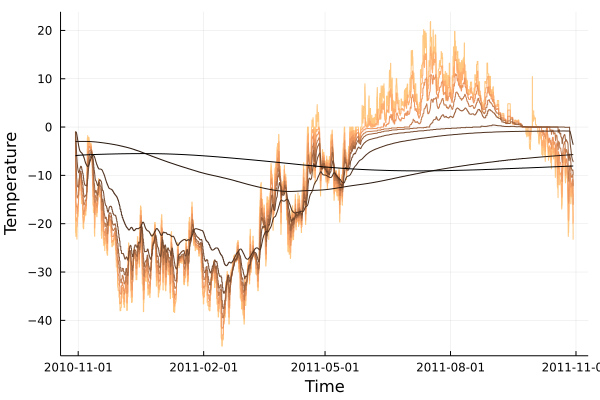
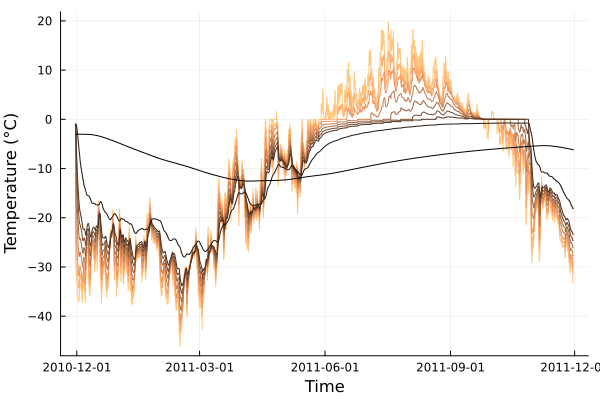
Fix readme examples and modify interface for SoilHeatTile preset

diff --git a/docs/src/quickstart.md b/docs/src/quickstart.md
@@ -12,22 +12,23 @@ using Plots
 # The forcing file will be automatically downloaded to the input/ folder if not already present.
 forcings = loadforcings(CryoGrid.Presets.Forcings.Samoylov_ERA_obs_fitted_1979_2014_spinup_extended_2044, :Tair => u"°C");
 # use air temperature as upper boundary forcing
-tair = TimeSeriesForcing(ustrip.(forcings.data.Tair), forcings.timestamps, :Tair);
+tair = TimeSeriesForcing(forcings.data.Tair, forcings.timestamps, :Tair);
 # get preset soil and initial temperature profile for Samoylov
 soilprofile, tempprofile = CryoGrid.Presets.SamoylovDefault
-# basic 1-layer heat conduction model (defaults to free water freezing scheme)
-model = CryoGrid.Presets.SoilHeatTile(TemperatureGradient(tair), soilprofile)
-# define time span (1 year)
-tspan = (DateTime(2010,10,30),DateTime(2011,10,30))
-p = parameters(model)
 initT = initializer(:T, tempprofile)
-u0 = initialcondition!(model, tspan, p, initT)
+# choose grid with 5cm spacing
+grid = CryoGrid.Presets.DefaultGrid_5cm
+# basic 1-layer heat conduction model (defaults to free water freezing scheme)
+tile = CryoGrid.Presets.SoilHeatTile(TemperatureGradient(tair), GeothermalHeatFlux(0.053u"W/m^2"), soilprofile, initT, grid=grid)
+# define time span (1 year)
+tspan = (DateTime(2010,11,30),DateTime(2011,11,30))
+u0, du0 = initialcondition!(tile, tspan)
 # CryoGrid front-end for ODEProblem
-prob = CryoGridProblem(model,u0,tspan,p,savevars=(:T,))
-# solve discretized system, saving every 6 hours;
+prob = CryoGridProblem(tile, u0, tspan, savevars=(:T,))
+# solve discretized system, saving every 3 hours;
 # Trapezoid on a discretized PDE is analogous to the well known Crank-Nicolson method.
-out = @time solve(prob, Trapezoid(), saveat=6*3600.0, progress=true) |> CryoGridOutput;
-zs = [1.0,5,10,20,30,50,100,500,1000]u"cm"
+out = @time solve(prob, Trapezoid(), saveat=3*3600.0, progress=true) |> CryoGridOutput;
+zs = [2,7,12,22,32,42,50,100,500]u"cm"
 cg = Plots.cgrad(:copper,rev=true)
 plot(out.T[Z(Near(zs))], color=cg[LinRange(0.0,1.0,length(zs))]', ylabel="Temperature", leg=false)
 ```
@@ -36,19 +37,17 @@ plot(out.T[Z(Near(zs))], color=cg[LinRange(0.0,1.0,length(zs))]', ylabel="Temper
 Alternatively, we can use a Dall'Amico freeze curve:
 
 ```julia
-model = CryoGrid.Presets.SoilHeatTile(TemperatureGradient(tair), soilprofile, freezecurve=SFCC(DallAmico()))
-# Set-up parameters
-p = parameters(model)
-tspan = (DateTime(2010,10,30),DateTime(2011,10,30))
+sfcc = SFCC(DallAmico(swrc=VanGenuchten(α=0.02, n=1.8))) # silt/clay-like freeze curve
+tile2 = CryoGrid.Presets.SoilHeatTile(TemperatureGradient(tair), GeothermalHeatFlux(0.053u"W/m^2"), soilprofile, initT, grid=grid, freezecurve=sfcc)
+u0, du0 = initialcondition!(tile2, tspan)
 # CryoGrid front-end for ODEProblem
-prob = CryoGridProblem(model,u0,tspan,p,savevars=(:T,))
+prob2 = CryoGridProblem(tile2, u0, tspan, savevars=(:T,))
 # stiff solvers don't work well with Dall'Amico due to the ill-conditioned Jacobian;
 # We can just forward Euler instead.
-out = @time solve(prob, Euler(), dt=120.0, saveat=6*3600.0, progress=true) |> CryoGridOutput;
-plot(out.T[Z(Near(zs))], color=cg[LinRange(0.0,1.0,length(zs))]', ylabel="Temperature", leg=false)
+out2 = @time solve(prob2, Euler(), dt=300.0, saveat=3*3600.0, progress=true) |> CryoGridOutput;
+plot(out2.T[Z(Near(zs))], color=cg[LinRange(0.0,1.0,length(zs))]', ylabel="Temperature", leg=false)
 ```
-
-Note that `SoilHeat` uses energy as the state variable by default. To use temperature as the state variable instead:
+Note that `SoilHeatTile` uses energy as the state variable by default. To use temperature as the state variable instead:
 
 ```julia
 # :T is the variable name for temperature, :H represents enthalpy/energy.

diff --git a/README.md b/README.md
@@ -43,17 +43,19 @@ tair = TimeSeriesForcing(forcings.data.Tair, forcings.timestamps, :Tair);
 # get preset soil and initial temperature profile for Samoylov
 soilprofile, tempprofile = CryoGrid.Presets.SamoylovDefault
 initT = initializer(:T, tempprofile)
+# choose grid with 5cm spacing
+grid = CryoGrid.Presets.DefaultGrid_5cm
 # basic 1-layer heat conduction model (defaults to free water freezing scheme)
-model = CryoGrid.Presets.SoilHeatTile(TemperatureGradient(tair), soilprofile, initT)
+tile = CryoGrid.Presets.SoilHeatTile(TemperatureGradient(tair), GeothermalHeatFlux(0.053u"W/m^2"), soilprofile, initT, grid=grid)
 # define time span (1 year)
-tspan = (DateTime(2010,10,30),DateTime(2011,10,30))
-u0, du0 = initialcondition!(model, tspan, initT)
+tspan = (DateTime(2010,11,30),DateTime(2011,11,30))
+u0, du0 = initialcondition!(tile, tspan)
 # CryoGrid front-end for ODEProblem
-prob = CryoGridProblem(model, u0, tspan, savevars=(:T,))
-# solve discretized system, saving every 6 hours;
+prob = CryoGridProblem(tile, u0, tspan, savevars=(:T,))
+# solve discretized system, saving every 3 hours;
 # Trapezoid on a discretized PDE is analogous to the well known Crank-Nicolson method.
-out = @time solve(prob, Trapezoid(), saveat=6*3600.0, progress=true) |> CryoGridOutput;
-zs = [1.0,5,10,20,30,50,100,500,1000]u"cm"
+out = @time solve(prob, Trapezoid(), saveat=3*3600.0, progress=true) |> CryoGridOutput;
+zs = [2,7,12,22,32,42,50,100,500]u"cm"
 cg = Plots.cgrad(:copper,rev=true)
 plot(out.T[Z(Near(zs))], color=cg[LinRange(0.0,1.0,length(zs))]', ylabel="Temperature", leg=false)
 ```
@@ -62,12 +64,15 @@ plot(out.T[Z(Near(zs))], color=cg[LinRange(0.0,1.0,length(zs))]', ylabel="Temper
 Alternatively, we can use a Dall'Amico freeze curve:
 
 ```julia
-model = CryoGrid.Presets.SoilHeatTile(TemperatureGradient(tair), soilprofile, freezecurve=SFCC(DallAmico()))
-tspan = (DateTime(2010,10,30),DateTime(2011,10,30))
-prob = CryoGridProblem(model, u0, tspan, saveat=6*3600, savevars=(:T,))
-# forward Euler with initial time step of 2 minutes
-out = @time solve(prob, Euler(), dt=120.0, saveat=6*3600, progress=true) |> CryoGridOutput;
-plot(out.T[Z(Near(zs))], color=cg[LinRange(0.0,1.0,length(zs))]', ylabel="Temperature", leg=false)
+sfcc = SFCC(DallAmico(swrc=VanGenuchten(α=0.02, n=1.8))) # silt/clay-like freeze curve
+tile2 = CryoGrid.Presets.SoilHeatTile(TemperatureGradient(tair), GeothermalHeatFlux(0.053u"W/m^2"), soilprofile, initT, grid=grid, freezecurve=sfcc)
+u0, du0 = initialcondition!(tile2, tspan)
+# CryoGrid front-end for ODEProblem
+prob2 = CryoGridProblem(tile2, u0, tspan, savevars=(:T,))
+# stiff solvers don't work well with Dall'Amico due to the ill-conditioned Jacobian;
+# We can just forward Euler instead.
+out2 = @time solve(prob2, Euler(), dt=300.0, saveat=3*3600.0, progress=true) |> CryoGridOutput;
+plot(out2.T[Z(Near(zs))], color=cg[LinRange(0.0,1.0,length(zs))]', ylabel="Temperature", leg=false)
 ```
 Note that `SoilHeatTile` uses energy as the state variable by default. To use temperature as the state variable instead:
 
